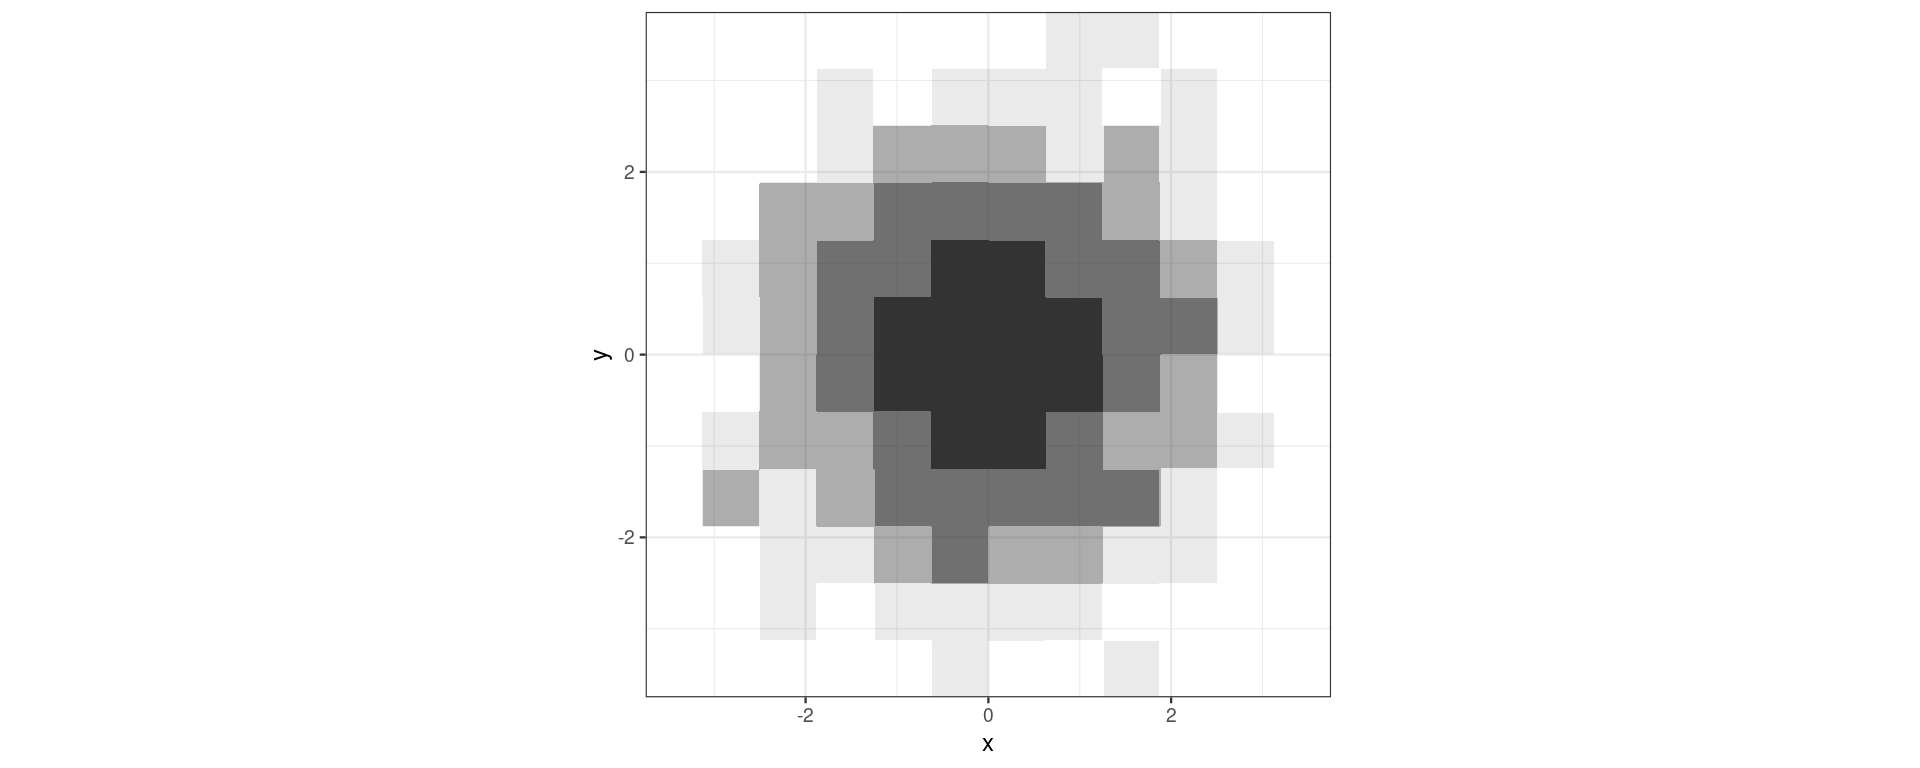
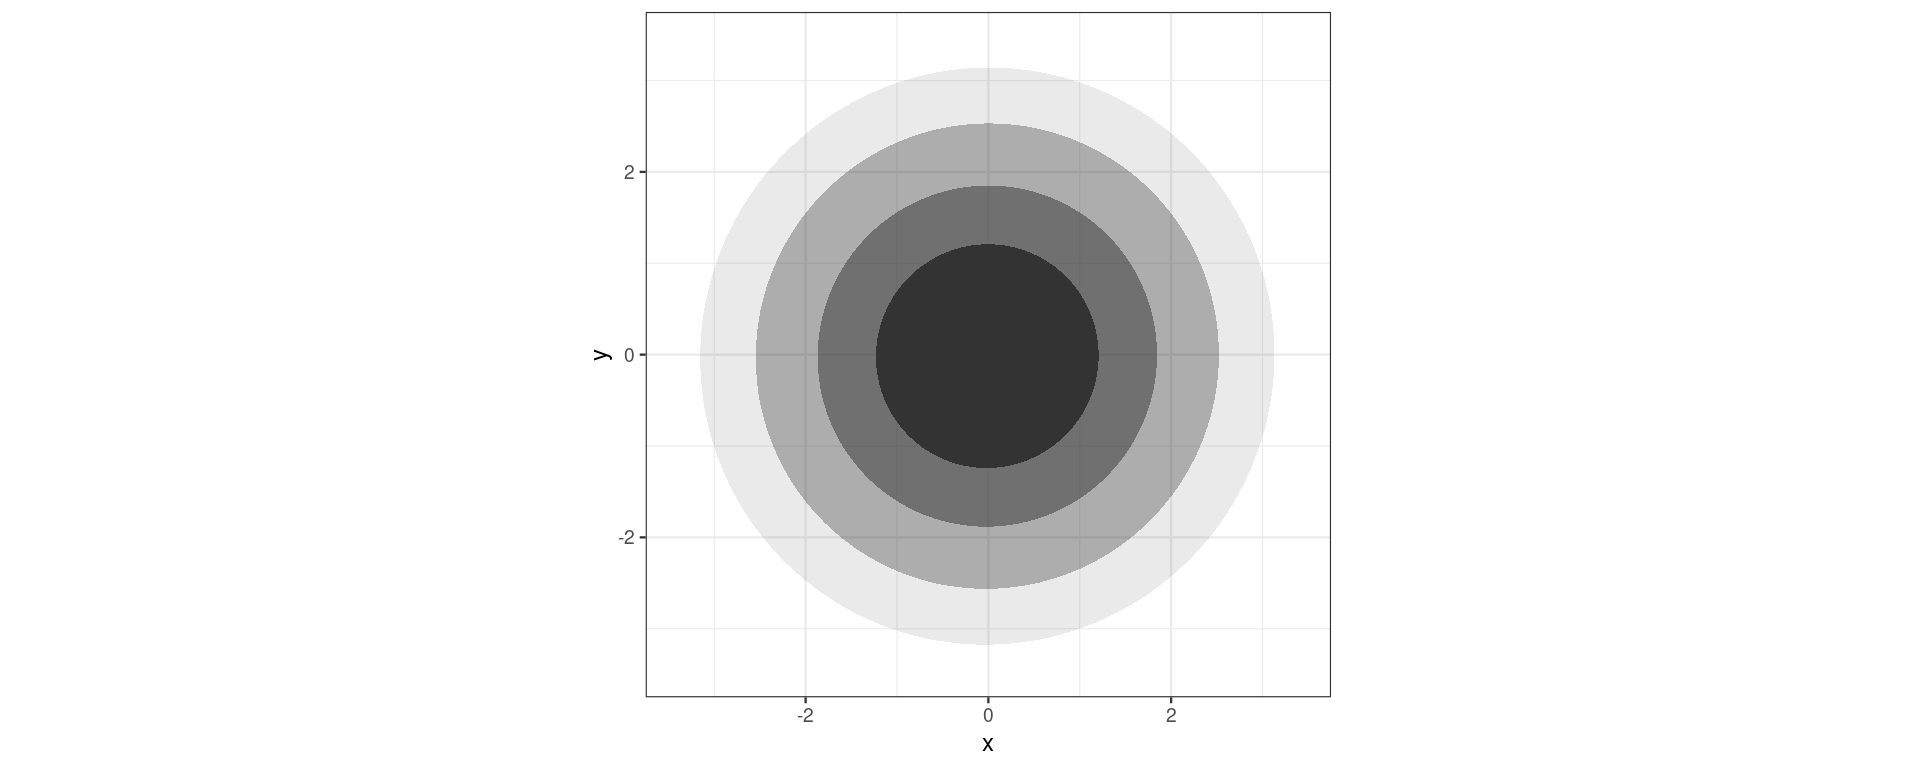
Built site for gh-pages

Changed region(s): [[0.375, 0.1562, 0.6562, 0.4688], [0.3438, 0.5, 0.6562, 0.7812]]

diff --git a/JSM-2022.html b/JSM-2022.html
@@ -465,7 +465,7 @@ Baylor University
 </div>
 </div>
 </section>
-<section id="a-motivating-example-1" class="slide level2" data-auto-animate="true">
+<section id="a-motivating-example-1" class="slide level2" data-auto-animate="true" data-transition="fade-out">
 <h2 data-id="quarto-animate-title">A Motivating Example</h2>
 <div class="columns">
 <div class="column" style="width:50%;">
@@ -496,11 +496,40 @@ Baylor University
 </div>
 </div>
 </section>
+<section id="a-motivating-example-2" class="slide level2" data-transition="fade">
+<h2>A Motivating Example</h2>
+<div class="columns">
+<div class="column" style="width:25%;">
+
+</div><div class="column" style="width:50%;">
+<div class="r-stack">
+<div class="cell">
+<div class="cell-output-display">
+<p><img data-src="JSM-2022_files/figure-revealjs/unnamed-chunk-4-1.png" width="864"></p>
+</div>
+</div>
+<div class="fragment fade-in">
+<div class="cell">
+<div class="cell-output-display">
+<p><img data-src="JSM-2022_files/figure-revealjs/unnamed-chunk-6-1.png" width="864"></p>
+</div>
+</div>
+</div>
+</div>
+</div>
+</div>
+<div class="column" style="width:25%;">
+
+</div>
+<p>::::</p>
+</section>
 <section id="defining-the-hdr" class="slide level2">
 <h2>Defining the HDR</h2>
 <div class="fragment fade-in" data-fragment-index="1">
 <div style="margin-top: 1em;">
-<p>Let <span class="math inline">\(f(x)\)</span> be the density function of a random variable <span class="math inline">\(X\)</span>. Then the <span class="math inline">\(100(1 - \alpha)\%\)</span> highest density region (HDR) is the subset <span class="math inline">\(R(f_{\alpha})\)</span> of the sample space of <span class="math inline">\(X\)</span> such that <span class="math inline">\(R(f_{\alpha}) = \{x: f (x) \geq f_{\alpha}\}\)</span> where <span class="math inline">\(f_{\alpha}\)</span> is the largest constant such that <span class="math inline">\(\mathrm{P}\left\{{X \in R(f_{\alpha})}\right\} \geq 1 - \alpha\)</span>.</p>
+<p style="line-height: 1.5; font-size:1.05em">
+Let <span class="math inline">\(f(x, y)\)</span> be the pdf of a random vector <span class="math inline">\(\left( X, Y \right) \in \mathbb{R}^2\)</span>. Then for <span class="math inline">\(\alpha \in (0,1)\)</span> the <span class="math inline">\(100(1 - \alpha)\%\)</span> highest density region (HDR) is the subset <span class="math inline">\(R(f_{\alpha}) \subset \mathbb{R}^2\)</span> such that <span class="math inline">\(R(f_{\alpha}) = \{(x, y): f (x, y) \geq f_{\alpha}\}\)</span> where <span class="math inline">\(f_{\alpha}\)</span> is the largest constant such that <span class="math inline">\(\mathrm{P}\left[(X, Y) \in R(f_{\alpha})\right] \geq 1 - \alpha\)</span>.
+</p>
 </div>
 </div>
 
@@ -525,7 +554,7 @@ Baylor University
 <span id="cb1-4"><a href="#cb1-4"></a>  <span class="fu">geom_point</span>()</span></code><button title="Copy to Clipboard" class="code-copy-button"><i class="bi"></i></button></pre></div>
 </div>
 
-<img data-src="JSM-2022_files/figure-revealjs/unnamed-chunk-8-1.png" width="960" class="r-stretch"></section>
+<img data-src="JSM-2022_files/figure-revealjs/unnamed-chunk-12-1.png" width="960" class="r-stretch"></section>
 <section id="section-1" class="slide level2" data-auto-animate="true" data-transition="fade">
 <h2 data-id="quarto-animate-title"></h2>
 <div class="cell">
@@ -535,7 +564,7 @@ Baylor University
 <span id="cb2-4" class="hljs-ln-code"><a href="#cb2-4"></a>  <span class="fu">geom_hdr</span>()</span></code><button title="Copy to Clipboard" class="code-copy-button"><i class="bi"></i></button></pre></div>
 </div>
 
-<img data-src="JSM-2022_files/figure-revealjs/unnamed-chunk-12-1.png" width="960" class="r-stretch"></section>
+<img data-src="JSM-2022_files/figure-revealjs/unnamed-chunk-16-1.png" width="960" class="r-stretch"></section>
 <section id="section-2" class="slide level2" data-auto-animate="true" data-transition="fade">
 <h2 data-id="quarto-animate-title"></h2>
 <div class="cell">
@@ -547,7 +576,7 @@ Baylor University
 <span id="cb3-6" class="hljs-ln-code"><a href="#cb3-6"></a>  )</span></code><button title="Copy to Clipboard" class="code-copy-button"><i class="bi"></i></button></pre></div>
 </div>
 
-<img data-src="JSM-2022_files/figure-revealjs/unnamed-chunk-16-1.png" width="960" class="r-stretch"></section>
+<img data-src="JSM-2022_files/figure-revealjs/unnamed-chunk-20-1.png" width="960" class="r-stretch"></section>
 <section id="section-3" class="slide level2" data-transition="fade">
 <h2></h2>
 <div class="cell">
@@ -560,7 +589,7 @@ Baylor University
 </div>
 
 <!-- ## {auto-animate=true auto-animate-duration=".5" auto-animate-easing="linear"} -->
-<img data-src="JSM-2022_files/figure-revealjs/unnamed-chunk-20-1.png" width="960" class="r-stretch"></section>
+<img data-src="JSM-2022_files/figure-revealjs/unnamed-chunk-24-1.png" width="960" class="r-stretch"></section>
 <section id="section-4" class="slide level2" data-transition="fade">
 <h2></h2>
 <div class="cell">
@@ -572,7 +601,7 @@ Baylor University
 <span id="cb5-6"><a href="#cb5-6"></a>  )</span></code><button title="Copy to Clipboard" class="code-copy-button"><i class="bi"></i></button></pre></div>
 </div>
 
-<img data-src="JSM-2022_files/figure-revealjs/unnamed-chunk-24-1.png" width="960" class="r-stretch"></section>
+<img data-src="JSM-2022_files/figure-revealjs/unnamed-chunk-28-1.png" width="960" class="r-stretch"></section>
 <section id="section-5" class="slide level2" data-transition="fade">
 <h2></h2>
 <div class="cell">
@@ -605,15 +634,15 @@ Baylor University
 
 </div>
 
-<img data-src="JSM-2022_files/figure-revealjs/unnamed-chunk-32-1.png" width="960" class="r-stretch"></section>
+<img data-src="JSM-2022_files/figure-revealjs/unnamed-chunk-36-1.png" width="960" class="r-stretch"></section>
 <section id="palmer-penguins-3" class="slide level2 smaller" data-transition="fade">
 <h2>Palmer Penguins</h2>
 
-<img data-src="JSM-2022_files/figure-revealjs/unnamed-chunk-34-1.png" width="960" class="r-stretch"></section>
+<img data-src="JSM-2022_files/figure-revealjs/unnamed-chunk-38-1.png" width="960" class="r-stretch"></section>
 <section id="palmer-penguins-4" class="slide level2 smaller" data-transition="fade">
 <h2>Palmer Penguins</h2>
 
-<img data-src="JSM-2022_files/figure-revealjs/unnamed-chunk-36-1.png" width="960" class="r-stretch"></section></section>
+<img data-src="JSM-2022_files/figure-revealjs/unnamed-chunk-40-1.png" width="960" class="r-stretch"></section></section>
 <section>
 <section id="geom_hdr_fun" class="title-slide slide level1 center">
 <h1><code>geom_hdr_fun()</code></h1>
@@ -631,7 +660,7 @@ Baylor University
 <div class="cell-output-display">
 <div class="quarto-figure quarto-figure-center">
 <figure>
-<p><img data-src="JSM-2022_files/figure-revealjs/unnamed-chunk-38-1.png" width="960"></p>
+<p><img data-src="JSM-2022_files/figure-revealjs/unnamed-chunk-42-1.png" width="960"></p>
 </figure>
 </div>
 </div>
@@ -660,7 +689,7 @@ Baylor University
 
 </section><section id="" class="slide level2 output-location-slide"><div class="cell output-location-slide">
 <div class="cell-output-display">
-<p><img data-src="JSM-2022_files/figure-revealjs/unnamed-chunk-40-1.png" width="960"></p>
+<p><img data-src="JSM-2022_files/figure-revealjs/unnamed-chunk-44-1.png" width="960"></p>
 </div>
 </div></section></section>
 <section>
@@ -678,9 +707,9 @@ Baylor University
 <span id="cb8-5"><a href="#cb8-5"></a>p <span class="sc">+</span> <span class="fu">geom_hdr_rug</span>()</span></code><button title="Copy to Clipboard" class="code-copy-button"><i class="bi"></i></button></pre></div>
 </div>
 
-<img data-src="JSM-2022_files/figure-revealjs/unnamed-chunk-44-1.png" width="960" class="r-stretch"></section>
-<section class="slide level2">
-
+<img data-src="JSM-2022_files/figure-revealjs/unnamed-chunk-48-1.png" width="960" class="r-stretch"></section>
+<section id="section-6" class="slide level2" data-transition="fade-out">
+<h2></h2>
 <div class="cell">
 <div class="sourceCode cell-code" id="cb9"><pre class="sourceCode numberSource r number-lines code-with-copy"><code class="sourceCode r"><span id="cb9-1"><a href="#cb9-1"></a>p <span class="ot">&lt;-</span> <span class="fu">ggplot</span>(faithful, <span class="fu">aes</span>(eruptions, waiting))</span>
 <span id="cb9-2"><a href="#cb9-2"></a></span>
@@ -691,8 +720,18 @@ Baylor University
 <span id="cb9-7"><a href="#cb9-7"></a>  )</span></code><button title="Copy to Clipboard" class="code-copy-button"><i class="bi"></i></button></pre></div>
 </div>
 
-<img data-src="JSM-2022_files/figure-revealjs/unnamed-chunk-48-1.png" width="672" class="r-stretch quarto-figure-center"></section>
-<section id="references" class="slide level2 smaller scrollable">
+<img data-src="JSM-2022_files/figure-revealjs/unnamed-chunk-52-1.png" width="672" class="r-stretch quarto-figure-center"></section>
+<section id="related-projects" class="slide level2" data-transition="fade">
+<h2>Related Projects</h2>
+<div style="margin-top: 1em;">
+<ul>
+<li><a href="https://github.com/robjhyndman/hdrcde"><strong>hdrcde</strong></a></li>
+<li><a href="https://github.com/Sayani07/gghdr"><strong>gghdr</strong></a></li>
+<li><a href="https://github.com/mjskay/ggdist"><strong>ggdist</strong></a></li>
+</ul>
+</div>
+</section>
+<section id="references" class="slide level2 smaller scrollable" data-transition="fade">
 <h2>References</h2>
 <div id="refs" class="references csl-bib-body" role="doc-bibliography">
 <div id="ref-Azzalini1" class="csl-entry" role="doc-biblioentry">
@@ -729,11 +768,20 @@ Baylor University
 <strong><strong>Wilkinson L</strong></strong>. <strong>2005</strong>. <em>The grammar of graphics (statistics and computing)</em>. Berlin, Heidelberg: Springer-Verlag.
 </div>
 </div>
+</section></section>
+<section>
+<section id="thank-you" class="title-slide slide level1 center" data-transition="fade">
+<h1>Thank you!</h1>
+<p><a href="https://jamesotto852.github.io/JSM-2022">jamesotto852.github.io/JSM-2022</a></p>
 </section>
-<section id="thank-you" class="slide level2">
-<h2>Thank you!</h2>
-<p>(to-do)</p>
-<div class="footer footer-default">
+<section id="additional-materials" class="slide level2" data-visibility="uncounted">
+<h2>Additional Materials</h2>
+
+<img data-src="JSM-2022_files/figure-revealjs/unnamed-chunk-54-1.png" width="960" class="r-stretch"></section>
+<section id="additional-materials-1" class="slide level2" data-visibility="uncounted">
+<h2>Additional Materials</h2>
+
+<img data-src="JSM-2022_files/figure-revealjs/unnamed-chunk-56-1.png" width="960" class="r-stretch"><div class="footer footer-default">
 <p>James Otto (Baylor University)</p>
 </div>
 </section></section>

diff --git a/index.html b/index.html
@@ -465,7 +465,7 @@ Baylor University
 </div>
 </div>
 </section>
-<section id="a-motivating-example-1" class="slide level2" data-auto-animate="true">
+<section id="a-motivating-example-1" class="slide level2" data-auto-animate="true" data-transition="fade-out">
 <h2 data-id="quarto-animate-title">A Motivating Example</h2>
 <div class="columns">
 <div class="column" style="width:50%;">
@@ -496,11 +496,40 @@ Baylor University
 </div>
 </div>
 </section>
+<section id="a-motivating-example-2" class="slide level2" data-transition="fade">
+<h2>A Motivating Example</h2>
+<div class="columns">
+<div class="column" style="width:25%;">
+
+</div><div class="column" style="width:50%;">
+<div class="r-stack">
+<div class="cell">
+<div class="cell-output-display">
+<p><img data-src="JSM-2022_files/figure-revealjs/unnamed-chunk-4-1.png" width="864"></p>
+</div>
+</div>
+<div class="fragment fade-in">
+<div class="cell">
+<div class="cell-output-display">
+<p><img data-src="JSM-2022_files/figure-revealjs/unnamed-chunk-6-1.png" width="864"></p>
+</div>
+</div>
+</div>
+</div>
+</div>
+</div>
+<div class="column" style="width:25%;">
+
+</div>
+<p>::::</p>
+</section>
 <section id="defining-the-hdr" class="slide level2">
 <h2>Defining the HDR</h2>
 <div class="fragment fade-in" data-fragment-index="1">
 <div style="margin-top: 1em;">
-<p>Let <span class="math inline">\(f(x)\)</span> be the density function of a random variable <span class="math inline">\(X\)</span>. Then the <span class="math inline">\(100(1 - \alpha)\%\)</span> highest density region (HDR) is the subset <span class="math inline">\(R(f_{\alpha})\)</span> of the sample space of <span class="math inline">\(X\)</span> such that <span class="math inline">\(R(f_{\alpha}) = \{x: f (x) \geq f_{\alpha}\}\)</span> where <span class="math inline">\(f_{\alpha}\)</span> is the largest constant such that <span class="math inline">\(\mathrm{P}\left\{{X \in R(f_{\alpha})}\right\} \geq 1 - \alpha\)</span>.</p>
+<p style="line-height: 1.5; font-size:1.05em">
+Let <span class="math inline">\(f(x, y)\)</span> be the pdf of a random vector <span class="math inline">\(\left( X, Y \right) \in \mathbb{R}^2\)</span>. Then for <span class="math inline">\(\alpha \in (0,1)\)</span> the <span class="math inline">\(100(1 - \alpha)\%\)</span> highest density region (HDR) is the subset <span class="math inline">\(R(f_{\alpha}) \subset \mathbb{R}^2\)</span> such that <span class="math inline">\(R(f_{\alpha}) = \{(x, y): f (x, y) \geq f_{\alpha}\}\)</span> where <span class="math inline">\(f_{\alpha}\)</span> is the largest constant such that <span class="math inline">\(\mathrm{P}\left[(X, Y) \in R(f_{\alpha})\right] \geq 1 - \alpha\)</span>.
+</p>
 </div>
 </div>
 
@@ -525,7 +554,7 @@ Baylor University
 <span id="cb1-4"><a href="#cb1-4"></a>  <span class="fu">geom_point</span>()</span></code><button title="Copy to Clipboard" class="code-copy-button"><i class="bi"></i></button></pre></div>
 </div>
 
-<img data-src="JSM-2022_files/figure-revealjs/unnamed-chunk-8-1.png" width="960" class="r-stretch"></section>
+<img data-src="JSM-2022_files/figure-revealjs/unnamed-chunk-12-1.png" width="960" class="r-stretch"></section>
 <section id="section-1" class="slide level2" data-auto-animate="true" data-transition="fade">
 <h2 data-id="quarto-animate-title"></h2>
 <div class="cell">
@@ -535,7 +564,7 @@ Baylor University
 <span id="cb2-4" class="hljs-ln-code"><a href="#cb2-4"></a>  <span class="fu">geom_hdr</span>()</span></code><button title="Copy to Clipboard" class="code-copy-button"><i class="bi"></i></button></pre></div>
 </div>
 
-<img data-src="JSM-2022_files/figure-revealjs/unnamed-chunk-12-1.png" width="960" class="r-stretch"></section>
+<img data-src="JSM-2022_files/figure-revealjs/unnamed-chunk-16-1.png" width="960" class="r-stretch"></section>
 <section id="section-2" class="slide level2" data-auto-animate="true" data-transition="fade">
 <h2 data-id="quarto-animate-title"></h2>
 <div class="cell">
@@ -547,7 +576,7 @@ Baylor University
 <span id="cb3-6" class="hljs-ln-code"><a href="#cb3-6"></a>  )</span></code><button title="Copy to Clipboard" class="code-copy-button"><i class="bi"></i></button></pre></div>
 </div>
 
-<img data-src="JSM-2022_files/figure-revealjs/unnamed-chunk-16-1.png" width="960" class="r-stretch"></section>
+<img data-src="JSM-2022_files/figure-revealjs/unnamed-chunk-20-1.png" width="960" class="r-stretch"></section>
 <section id="section-3" class="slide level2" data-transition="fade">
 <h2></h2>
 <div class="cell">
@@ -560,7 +589,7 @@ Baylor University
 </div>
 
 <!-- ## {auto-animate=true auto-animate-duration=".5" auto-animate-easing="linear"} -->
-<img data-src="JSM-2022_files/figure-revealjs/unnamed-chunk-20-1.png" width="960" class="r-stretch"></section>
+<img data-src="JSM-2022_files/figure-revealjs/unnamed-chunk-24-1.png" width="960" class="r-stretch"></section>
 <section id="section-4" class="slide level2" data-transition="fade">
 <h2></h2>
 <div class="cell">
@@ -572,7 +601,7 @@ Baylor University
 <span id="cb5-6"><a href="#cb5-6"></a>  )</span></code><button title="Copy to Clipboard" class="code-copy-button"><i class="bi"></i></button></pre></div>
 </div>
 
-<img data-src="JSM-2022_files/figure-revealjs/unnamed-chunk-24-1.png" width="960" class="r-stretch"></section>
+<img data-src="JSM-2022_files/figure-revealjs/unnamed-chunk-28-1.png" width="960" class="r-stretch"></section>
 <section id="section-5" class="slide level2" data-transition="fade">
 <h2></h2>
 <div class="cell">
@@ -605,15 +634,15 @@ Baylor University
 
 </div>
 
-<img data-src="JSM-2022_files/figure-revealjs/unnamed-chunk-32-1.png" width="960" class="r-stretch"></section>
+<img data-src="JSM-2022_files/figure-revealjs/unnamed-chunk-36-1.png" width="960" class="r-stretch"></section>
 <section id="palmer-penguins-3" class="slide level2 smaller" data-transition="fade">
 <h2>Palmer Penguins</h2>
 
-<img data-src="JSM-2022_files/figure-revealjs/unnamed-chunk-34-1.png" width="960" class="r-stretch"></section>
+<img data-src="JSM-2022_files/figure-revealjs/unnamed-chunk-38-1.png" width="960" class="r-stretch"></section>
 <section id="palmer-penguins-4" class="slide level2 smaller" data-transition="fade">
 <h2>Palmer Penguins</h2>
 
-<img data-src="JSM-2022_files/figure-revealjs/unnamed-chunk-36-1.png" width="960" class="r-stretch"></section></section>
+<img data-src="JSM-2022_files/figure-revealjs/unnamed-chunk-40-1.png" width="960" class="r-stretch"></section></section>
 <section>
 <section id="geom_hdr_fun" class="title-slide slide level1 center">
 <h1><code>geom_hdr_fun()</code></h1>
@@ -631,7 +660,7 @@ Baylor University
 <div class="cell-output-display">
 <div class="quarto-figure quarto-figure-center">
 <figure>
-<p><img data-src="JSM-2022_files/figure-revealjs/unnamed-chunk-38-1.png" width="960"></p>
+<p><img data-src="JSM-2022_files/figure-revealjs/unnamed-chunk-42-1.png" width="960"></p>
 </figure>
 </div>
 </div>
@@ -660,7 +689,7 @@ Baylor University
 
 </section><section id="" class="slide level2 output-location-slide"><div class="cell output-location-slide">
 <div class="cell-output-display">
-<p><img data-src="JSM-2022_files/figure-revealjs/unnamed-chunk-40-1.png" width="960"></p>
+<p><img data-src="JSM-2022_files/figure-revealjs/unnamed-chunk-44-1.png" width="960"></p>
 </div>
 </div></section></section>
 <section>
@@ -678,9 +707,9 @@ Baylor University
 <span id="cb8-5"><a href="#cb8-5"></a>p <span class="sc">+</span> <span class="fu">geom_hdr_rug</span>()</span></code><button title="Copy to Clipboard" class="code-copy-button"><i class="bi"></i></button></pre></div>
 </div>
 
-<img data-src="JSM-2022_files/figure-revealjs/unnamed-chunk-44-1.png" width="960" class="r-stretch"></section>
-<section class="slide level2">
-
+<img data-src="JSM-2022_files/figure-revealjs/unnamed-chunk-48-1.png" width="960" class="r-stretch"></section>
+<section id="section-6" class="slide level2" data-transition="fade-out">
+<h2></h2>
 <div class="cell">
 <div class="sourceCode cell-code" id="cb9"><pre class="sourceCode numberSource r number-lines code-with-copy"><code class="sourceCode r"><span id="cb9-1"><a href="#cb9-1"></a>p <span class="ot">&lt;-</span> <span class="fu">ggplot</span>(faithful, <span class="fu">aes</span>(eruptions, waiting))</span>
 <span id="cb9-2"><a href="#cb9-2"></a></span>
@@ -691,8 +720,18 @@ Baylor University
 <span id="cb9-7"><a href="#cb9-7"></a>  )</span></code><button title="Copy to Clipboard" class="code-copy-button"><i class="bi"></i></button></pre></div>
 </div>
 
-<img data-src="JSM-2022_files/figure-revealjs/unnamed-chunk-48-1.png" width="672" class="r-stretch quarto-figure-center"></section>
-<section id="references" class="slide level2 smaller scrollable">
+<img data-src="JSM-2022_files/figure-revealjs/unnamed-chunk-52-1.png" width="672" class="r-stretch quarto-figure-center"></section>
+<section id="related-projects" class="slide level2" data-transition="fade">
+<h2>Related Projects</h2>
+<div style="margin-top: 1em;">
+<ul>
+<li><a href="https://github.com/robjhyndman/hdrcde"><strong>hdrcde</strong></a></li>
+<li><a href="https://github.com/Sayani07/gghdr"><strong>gghdr</strong></a></li>
+<li><a href="https://github.com/mjskay/ggdist"><strong>ggdist</strong></a></li>
+</ul>
+</div>
+</section>
+<section id="references" class="slide level2 smaller scrollable" data-transition="fade">
 <h2>References</h2>
 <div id="refs" class="references csl-bib-body" role="doc-bibliography">
 <div id="ref-Azzalini1" class="csl-entry" role="doc-biblioentry">
@@ -729,11 +768,20 @@ Baylor University
 <strong><strong>Wilkinson L</strong></strong>. <strong>2005</strong>. <em>The grammar of graphics (statistics and computing)</em>. Berlin, Heidelberg: Springer-Verlag.
 </div>
 </div>
+</section></section>
+<section>
+<section id="thank-you" class="title-slide slide level1 center" data-transition="fade">
+<h1>Thank you!</h1>
+<p><a href="https://jamesotto852.github.io/JSM-2022">jamesotto852.github.io/JSM-2022</a></p>
 </section>
-<section id="thank-you" class="slide level2">
-<h2>Thank you!</h2>
-<p>(to-do)</p>
-<div class="footer footer-default">
+<section id="additional-materials" class="slide level2" data-visibility="uncounted">
+<h2>Additional Materials</h2>
+
+<img data-src="JSM-2022_files/figure-revealjs/unnamed-chunk-54-1.png" width="960" class="r-stretch"></section>
+<section id="additional-materials-1" class="slide level2" data-visibility="uncounted">
+<h2>Additional Materials</h2>
+
+<img data-src="JSM-2022_files/figure-revealjs/unnamed-chunk-56-1.png" width="960" class="r-stretch"><div class="footer footer-default">
 <p>James Otto (Baylor University)</p>
 </div>
 </section></section>
